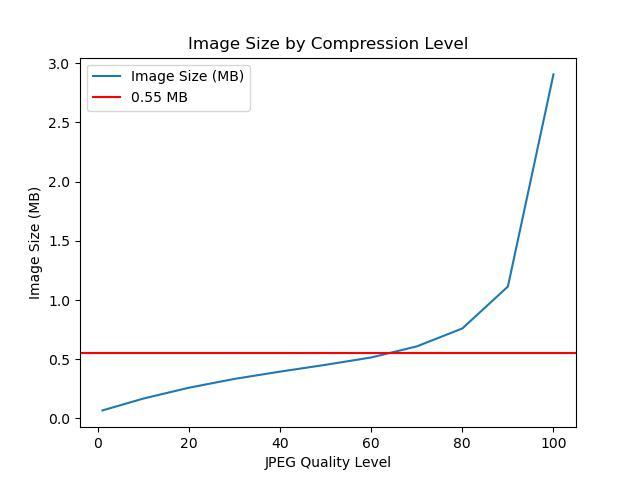
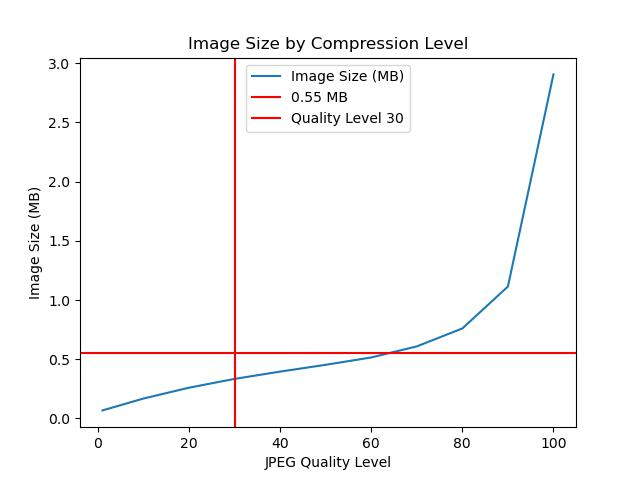
Homework 5 Update

Changed region(s): [[0.125, 0.125, 0.6562, 0.9062]]

diff --git a/image_compression_analysis/assignment_05.py b/image_compression_analysis/assignment_05.py
@@ -69,6 +69,7 @@ def main():
     # Plot the image size by compression and a straight line for 0.55 MB
     plt.plot(jpeg_quality_levels, [os.path.getsize(folder_path + image_name + '_' + str(jql) + '.jpg')/1e6 for jql in jpeg_quality_levels], label='Image Size (MB)')
     plt.axhline(y=0.55, color='r', linestyle='-', label='0.55 MB')
+    plt.axvline(x=30, color='r', linestyle='-', label='Quality Level 30')
     plt.xlabel('JPEG Quality Level')
     plt.ylabel('Image Size (MB)')
     plt.title('Image Size by Compression Level')

diff --git a/image_compression_analysis/converting_dng_to_png.py b/image_compression_analysis/converting_dng_to_png.py
@@ -26,8 +26,7 @@ for filename in os.listdir(dng_dir):
         if filename == "image_3.dng": 
             cropped_rgb = resized_rgb[:-360, :]
         elif filename == "image_2.dng":
-            cropped_rgb = resized_rgb[:-180:, :]  
-            cropped_rgb = resized_rgb[180:, :]  
+            cropped_rgb = resized_rgb[180:-180, :]   
         else: 
             cropped_rgb = resized_rgb[360:, :]  
 
